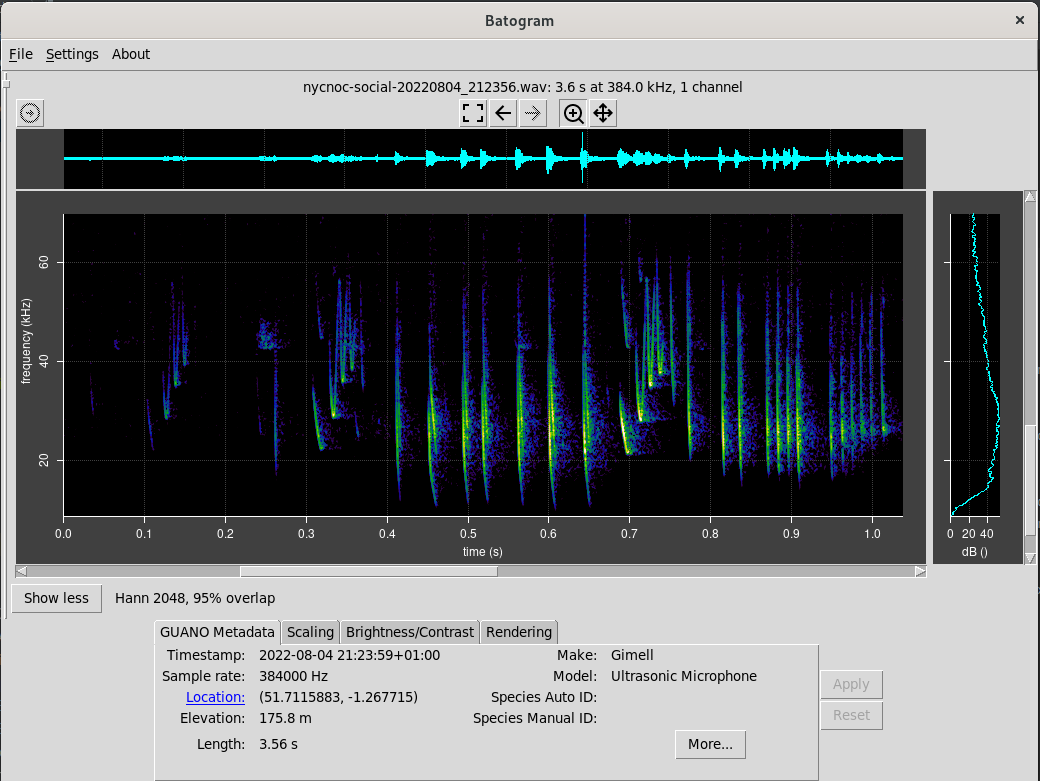
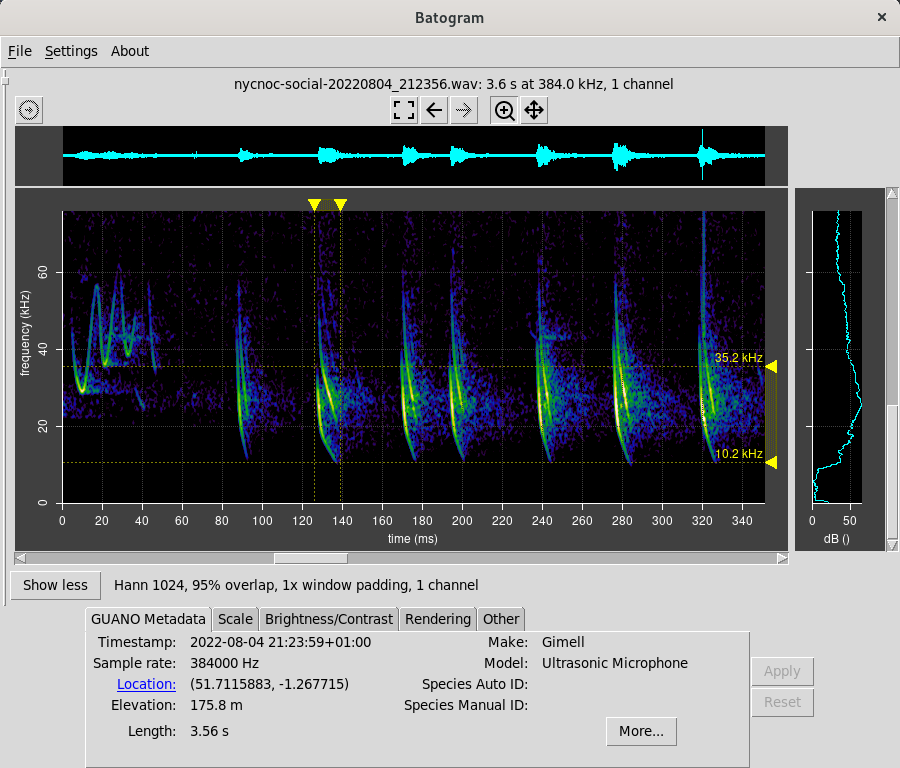
Updated docs for recent features added.

Changed region(s): [[0.0, 0.0, 1.0, 1.0], [0.7778, 0.8438, 0.9022, 0.9375], [0.6533, 0.9375, 0.7467, 0.9688]]

diff --git a/docs/batogram.md b/docs/batogram.md
@@ -101,16 +101,39 @@ a spectrogram:
 * FFT samples determines the window width for the Fourier Transform, allowing to trade
 off time and frequency resolution as you wish. Auto mode will select one for you automatically based on the
 screen aspect ratio.
-* FFT overlap determines the overlap of adjacent FFT windows, allowing you to trade off smoothness
-versus speed of rendering. Auto mode chooses a value for you based in screen resolution.
 * Various FFT window types are available. The default is Hann, which is a common general purpose
 window. Use Google to find out more about this. The window type makes little difference
 unless you are zoomed right on a CF section of call.
+* FFT overlap determines the overlap of adjacent FFT windows, allowing you to trade off smoothness
+versus speed of rendering. Auto mode chooses a value for you based in screen resolution.
+* The window padding factor allows you to pad the window with zeros. This increases freqeuency resolution.
+* Spectrogram type allows you to choose between a standard spectrogram and a higher resolution reassignment
+spectrogram. [Reassignment spectrograms](https://en.wikipedia.org/wiki/Reassignment_method) are slower to calculate
+and need more memory to process, so it is best to zoom in the region of interest before selecting this option.
+Reassignment spectrograms and are bested suited to data with high signal to noise ratio and with no overlapping
+calls, otherwise artifacts may result. Reassingment spectrograms are best viewed with Image Interpolation set to None
+and with Window Padding set to 4 or 8. You may also want to adjust the brightness/contrast settings. See the example
+below.
 * Image interpolation determines how FFT pixels are mapped to screen pixels,
 allowing you to trade off smoothness of image versus speed of rendering.
 
 To achieve fastest rendering at the price of lower image quality, zoom right into the region of
 interest, choose a small FFT window, low overlap, and no interpolation.
+
+Here is an example of a reassignment spectrogram compared with a standard spectrogram of the
+same raw data, illustraing the higher resolution of the reassigment spectrogram for data with high signal to
+noise ratio.
+
+![img.png](reassignment.png)
+
+### Other
+
+The Other tab includes miscellaneous options.
+
+* Multichannel data determines how data files with more with one channel of data will be handled.
+You can choose to combine them all or by selecting a specific channel. Channel combination
+is done by summing the spectrogram power amplitudes after phase is discarded to avoid interference effects.
+If you select a channel that is not present, any channels that are present will be summed instead. 
 
 Settings
 --------

diff --git a/RELEASES.md b/RELEASES.md
@@ -1,3 +1,10 @@
+### Release 1.0.10
+* Added multichannel options.
+* Added support for reassignment spectrograms for increased resolution.
+* Added support for window padding for increase frequency resolution.
+* Made guano parsing more tolerant of unexpected data and types.
+* Fixed a regression so that the sampling rate in the guano metadata overrides the one in the .wav file header.
+
 ### Release 1.0.9
 * Added support for manually placed time and frequency markers to read spans off the graph.
 * Resizing of main window is now more responsive, especially on Windows.

diff --git a/README.md b/README.md
@@ -14,8 +14,9 @@ Some capabilities and features:
 * Handling of multichannel data files, including stereo.
 * Ability to correct for microphone frequency response.
 * Basic side by side comparison of two spectrograms.
+* Support for reassignment spectrograms for increased resolution.
 * Display of GUANO metadata, including the ability to click to open the location in Google Maps.
-* Runs on Windows, Linux and macOS (experimental) operating systems.
+* Runs on Windows, Linux operating systems, maybe macOS.
 
 Installation
 ------------
